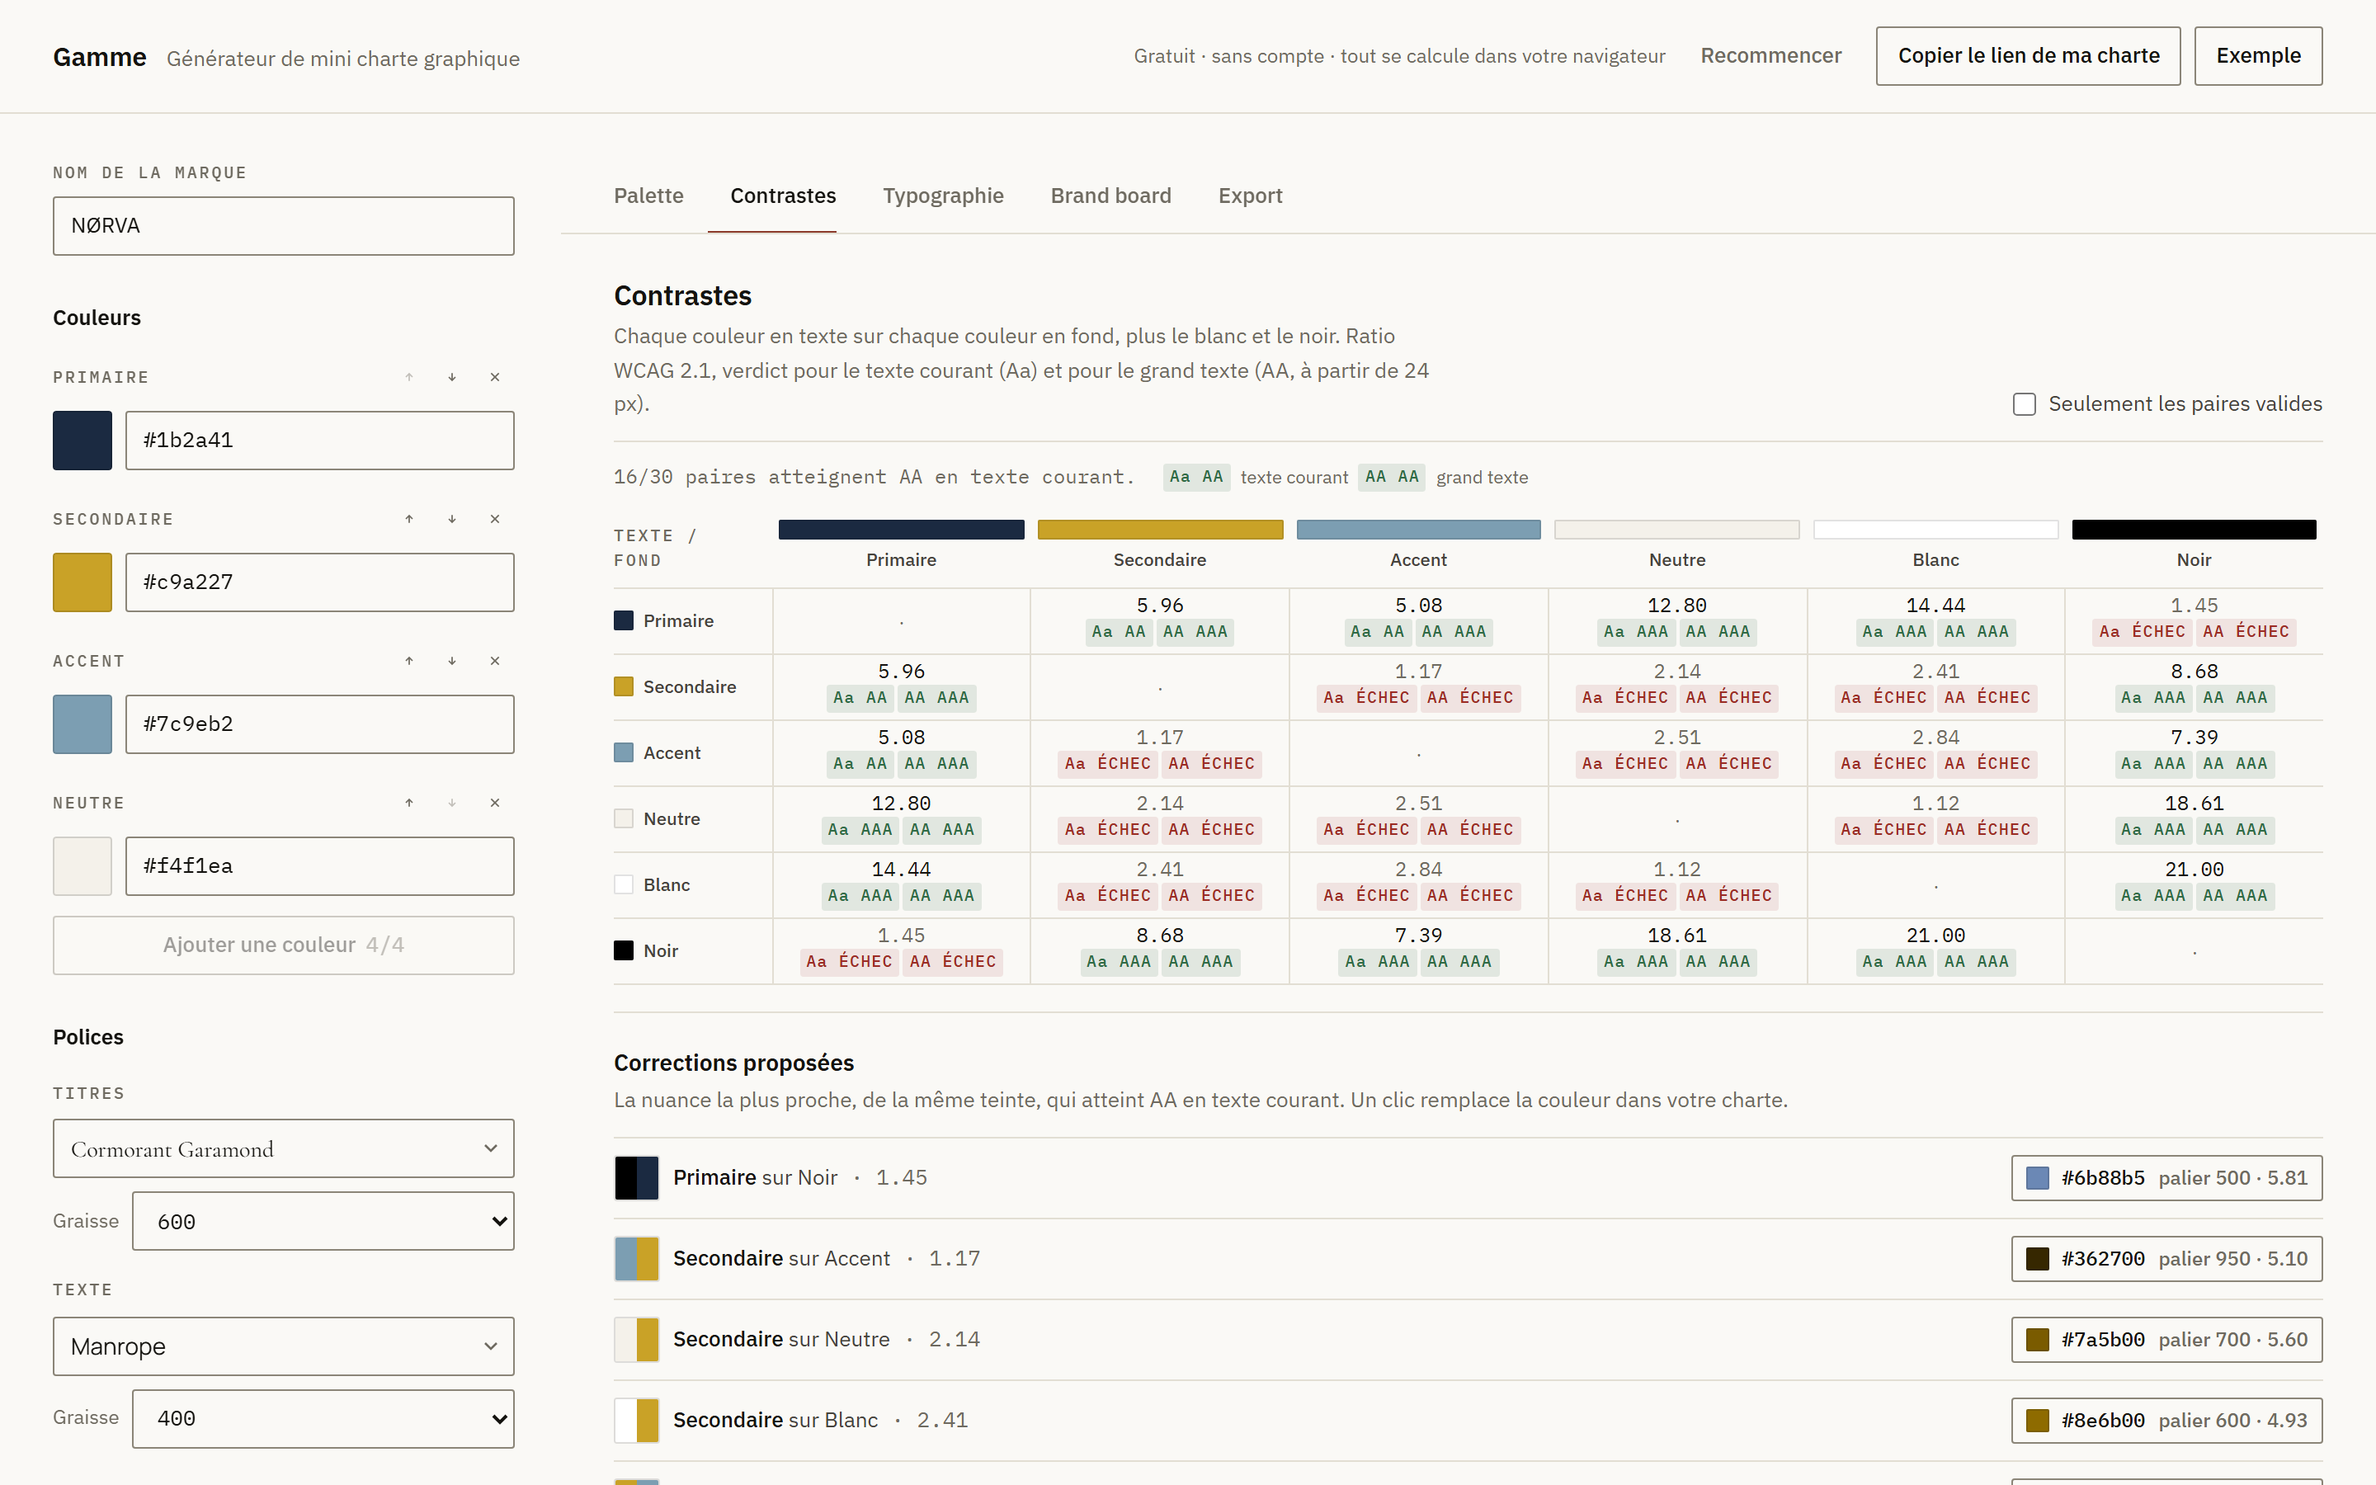
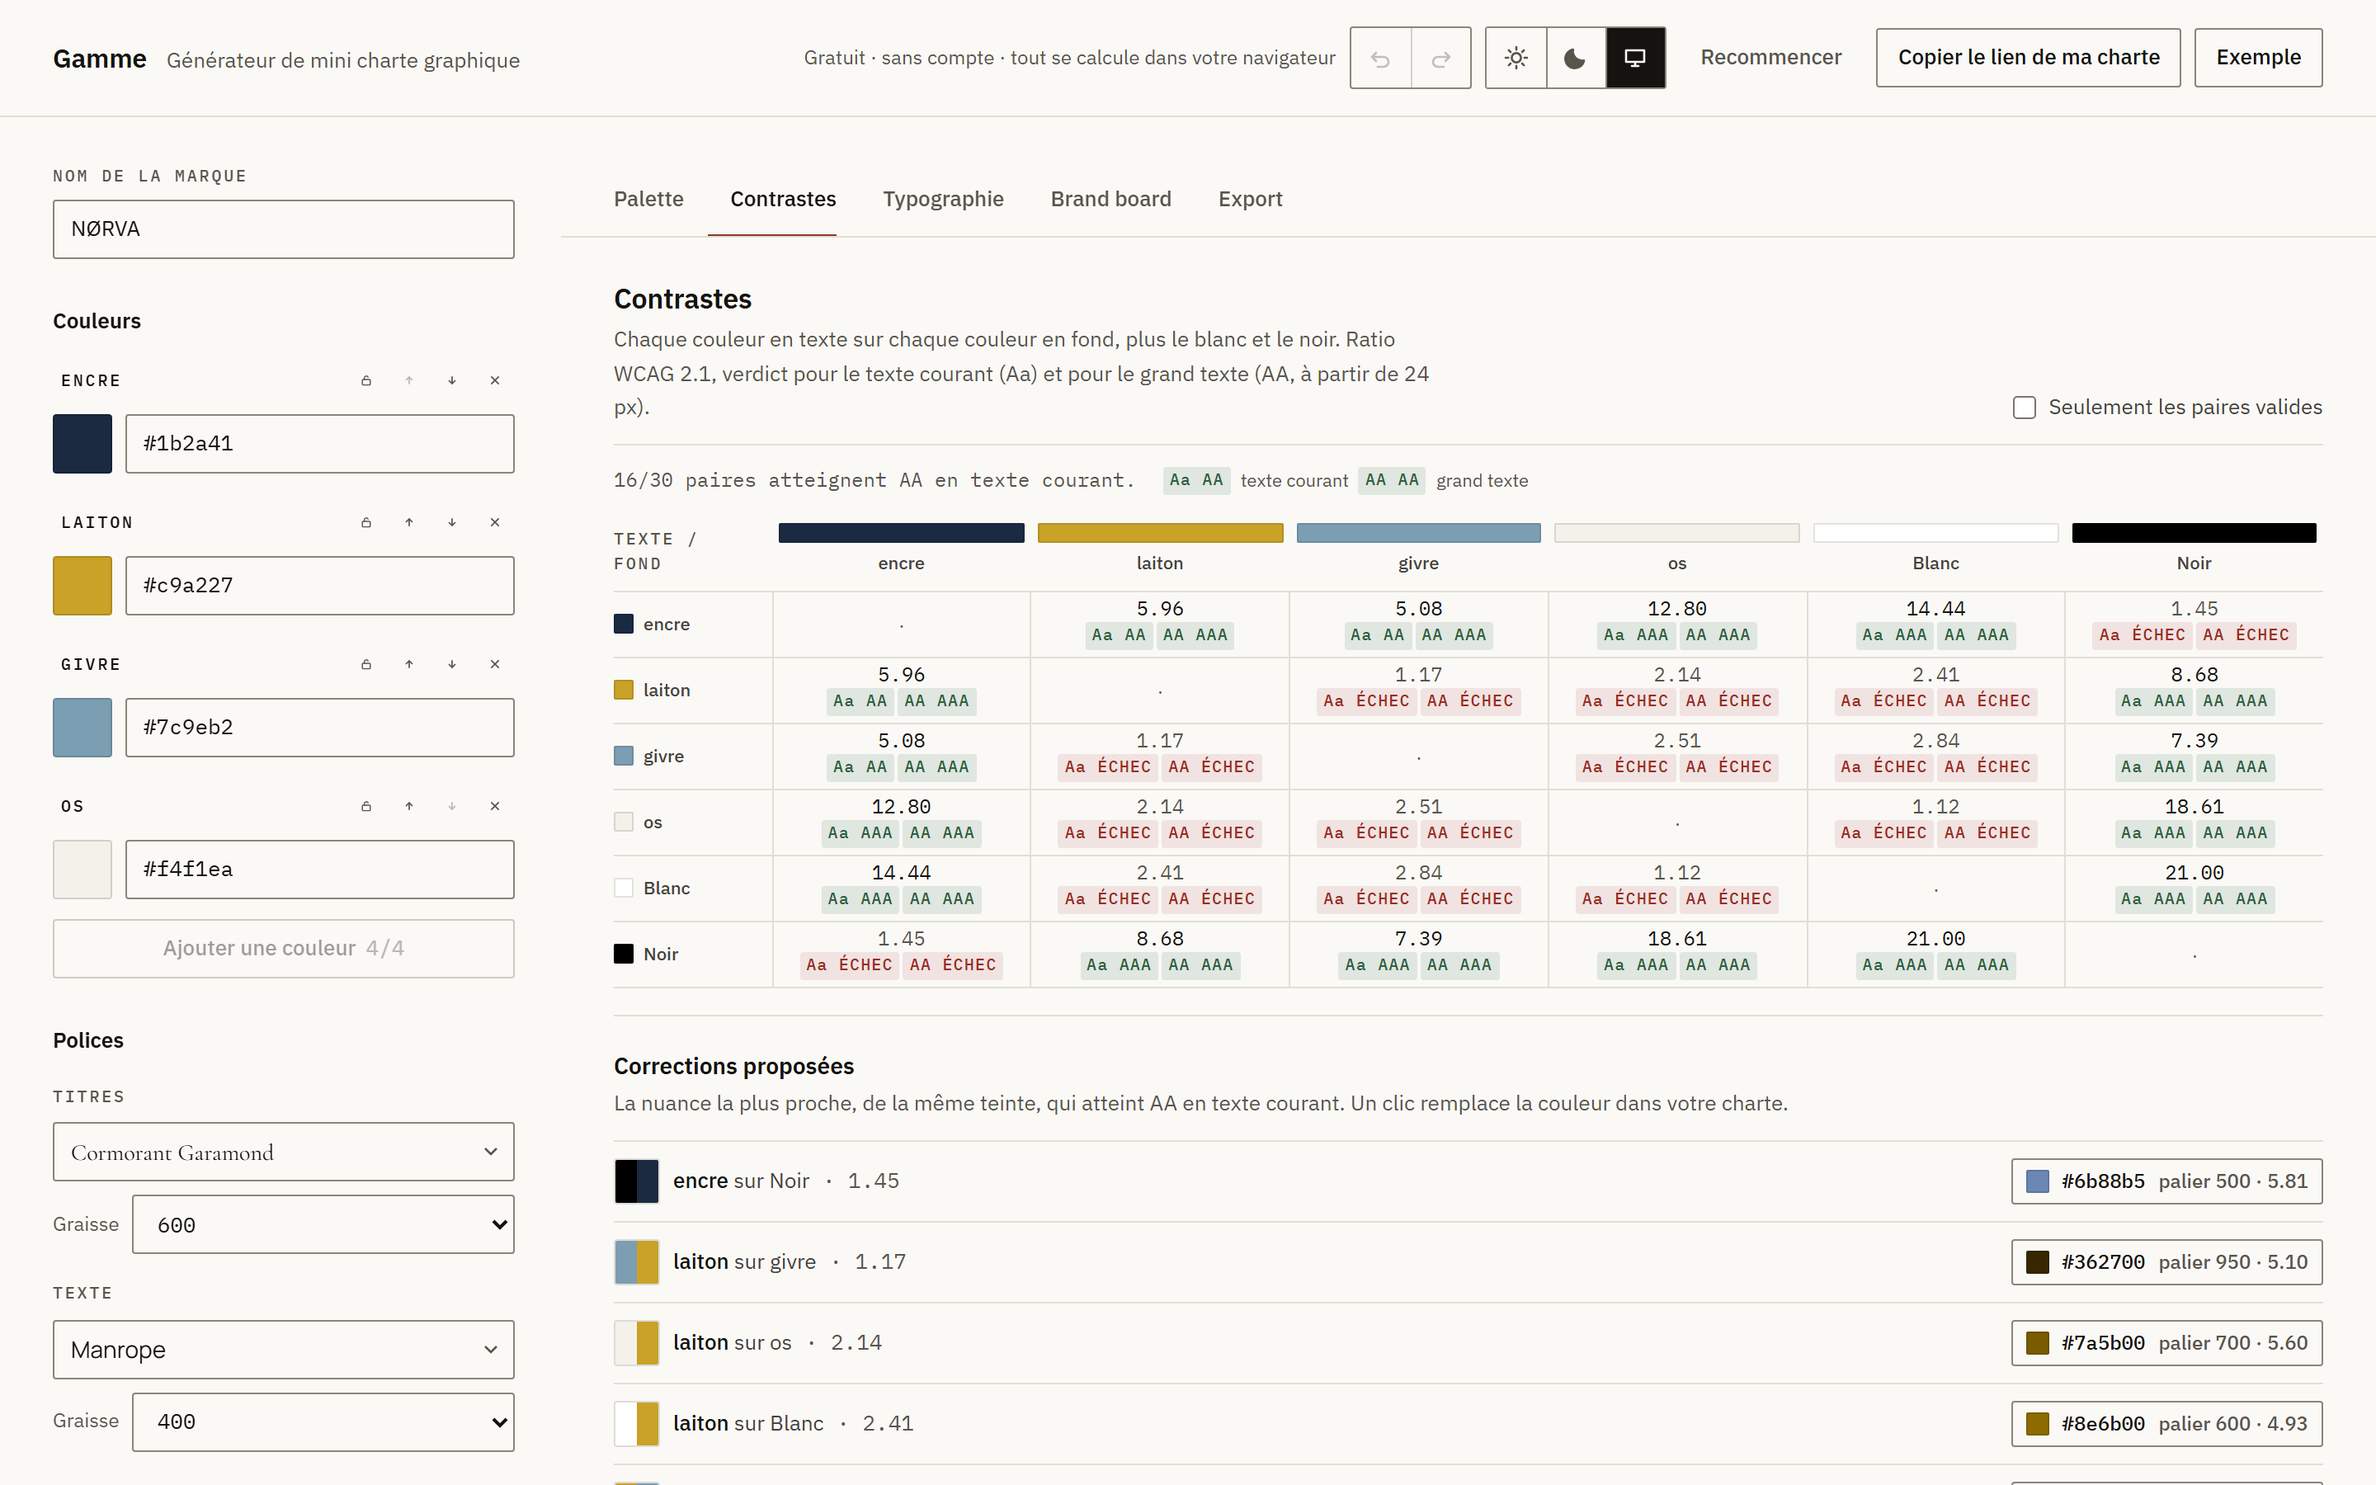
Met la documentation en accord et regenere les visuels
README, CLAUDE.md et JOURNAL.md decrivent l'etat reel: Preact, 47 ko
gzip, grille nuance par nuance, simulation du daltonisme, mode sombre,
APCA. Captures et image Open Graph regenerees depuis l'outil.

diff --git a/README.md b/README.md
@@ -22,6 +22,8 @@ rien de ce que vous saisissez ne le quitte.
 | ![Le panneau Palette : quatre échelles de onze nuances, avec la couleur saisie encadrée sur son palier d'ancrage.](docs/palette.png) | **Palette** — onze nuances par couleur, la couleur saisie restituée telle quelle. |
 | ![Le panneau Contrastes : une matrice six par six avec les ratios et les pastilles AA/AAA, suivie de la liste des corrections proposées.](docs/contrastes.png) | **Contrastes** — la matrice complète, puis une correction cliquable par paire en échec. |
 | ![Le panneau Typographie : neuf niveaux, chacun avec sa taille en pixels et en rem, son interlignage conseillé, et un spécimen rendu dans la police choisie.](docs/typographie.png) | **Typographie** — l'échelle rendue dans vos polices, interlignage compris. |
+| ![La grille nuance par nuance : onze paliers contre onze, les cases pleines marquant les paires qui atteignent le seuil.](docs/grille.png) | **Nuance par nuance** — 121 paires, le seuil au choix. |
+| ![L'outil en thème sombre, avec la palette rendue telle que la perçoit une deutéranopie.](docs/sombre-daltonisme.png) | **Thème sombre et simulation** — ici en deutéranopie. |
 
 ---
 
@@ -48,8 +50,19 @@ paragraphe se désagrège en lignes flottantes.
 lien et en 1080 × 1350 pour un post. Exporté en PNG à deux fois la définition,
 polices comprises.
 
+**La grille nuance par nuance.** Les onze paliers d'une échelle contre les onze
+de l'autre, avec le seuil de votre choix. C'est la grille qu'on consulte au
+moment d'intégrer : elle répond à « est-ce que le palier 600 passe sur le
+palier 50 ».
+
+**La simulation du daltonisme.** La palette et le brand board rendus tels que
+les perçoivent une deutéranopie, une protanopie ou une tritanopie. Un vert de
+validation et un rouge d'erreur qui ne se distinguent que par la teinte
+deviennent le même objet : mieux vaut le voir avant de livrer.
+
 **Les exports.** Variables CSS, bloc `@theme` pour Tailwind v4, tokens JSON au
-format W3C Design Tokens. À copier ou à télécharger.
+format W3C Design Tokens. À copier ou à télécharger. Nommez vos couleurs et les
+tokens s'appellent `--color-encre-500` plutôt que `--color-primary-500`.
 
 **Une URL partageable.** Toute la configuration tient dans le fragment de
 l'URL — la partie après le `#`, qui n'est jamais transmise au serveur. Même
@@ -68,8 +81,15 @@ l'hébergeur ne voit pas votre charte.
   qui passe AA qui est employée. Les couleurs exactes restent dans la bande de
   palette, en bas.
 - **L'interface ne vole pas la vedette aux palettes.** Papier, encre, filets
-  d'un cheveu, un seul accent. Toutes ses couleurs de texte passent AAA : un
-  outil qui juge le contraste des autres n'a pas le droit d'échouer au sien.
+  d'un cheveu, un seul accent. Toutes ses couleurs de texte atteignent AAA, dans
+  les deux thèmes : un outil qui juge le contraste des autres n'a pas le droit
+  d'échouer au sien.
+- **Jamais d'`opacity` sur du texte.** Elle réduit le contraste dans les mêmes
+  proportions, sans qu'on le voie venir. Les libellés secondaires sont mélangés
+  vers le fond en s'arrêtant au dernier point qui tient AA.
+- **APCA en second avis, jamais à la place.** Le calcul du brouillon WCAG 3 n'est
+  affiché que là où il contredit WCAG 2.1 — donner deux chiffres pour chaque
+  paire n'aiderait personne.
 
 ## Accessibilité
 
@@ -77,9 +97,9 @@ C'est un outil qui parle d'accessibilité ; il est tenu d'être exemplaire.
 
 | Contrôle | Résultat |
 |---|---|
-| Lighthouse mobile | 98 · 100 · 100 · 100 |
-| axe-core, trois états | 0 violation |
-| Tests unitaires | 151 |
+| Lighthouse mobile | 100 · 100 · 100 · 100 |
+| axe-core, quatre états dont 320 px | 0 violation |
+| Tests unitaires | 183 |
 | Vérifications de bout en bout | 83 |
 
 Navigation clavier complète — combobox ARIA, onglets aux flèches, anneau de
@@ -96,14 +116,18 @@ correspondance exacte sur cinq paires, ratios et verdicts.
 | | |
 |---|---|
 | [Vite](https://vite.dev) | build |
-| [React](https://react.dev) + [TypeScript](https://www.typescriptlang.org) | interface |
+| [Preact](https://preactjs.com) + [TypeScript](https://www.typescriptlang.org) | interface |
 | [Tailwind CSS v4](https://tailwindcss.com) | styles |
-| [culori](https://culorijs.org) | conversions et gamut mapping |
+| [culori](https://culorijs.org) | conversions, gamut mapping, simulation |
 | [html-to-image](https://github.com/bubkoo/html-to-image) | export PNG |
 
-Deux dépendances de production, en tout. Pas de serveur, pas de base de données,
-pas de clé d'API — le catalogue de 171 Google Fonts est embarqué dans le dépôt
-et les familles se chargent à la demande via l'URL `css2`.
+Le code est écrit en React ; `preact/compat` le sert pour un dixième du poids.
+**47 ko gzip au premier chargement**, `html-to-image` n'étant téléchargé qu'au
+premier export.
+
+Pas de serveur, pas de base de données, pas de clé d'API — le catalogue de
+171 Google Fonts est embarqué dans le dépôt et les familles se chargent à la
+demande via l'URL `css2`.
 
 ### Architecture
 

diff --git a/JOURNAL.md b/JOURNAL.md
@@ -566,3 +566,97 @@ en 200 avec le bon type de contenu.
 _(à compléter)_
 
 ---
+
+## Étape 7 — Le plan d'amélioration, exécuté
+
+**Date :** 19 septembre 2026
+**Temps passé :** ~3 h 30
+
+Analyse du projet fini, puis exécution des trois vagues du plan.
+
+### Ce que l'analyse a trouvé
+
+D'abord un mensonge, et c'est le plus important : **deux des quarante-deux
+vérifications de `npm run qa` étaient écrites `verifier(true, …)`**. Elles ne
+pouvaient pas échouer. L'une affichait même « 0 nuances » parce que son
+sélecteur cherchait des boutons de palette depuis l'onglet Contrastes. Le compte
+honnête était quarante, pas quarante-deux.
+
+Ensuite : la dérive de chroma devenue flagrante, le panneau Typographie qui
+cassait sa mise en page, l'absence de mode sombre, et surtout **la matrice qui
+ne comparait que quatre couleurs de base** alors que l'outil calculait
+quarante-quatre nuances sans jamais les confronter entre elles.
+
+### Vague 1 — l'intégrité et le visible
+
+Les deux assertions réécrites en vraies. Le chroma plafonné à 1,6 fois celui de
+la couleur saisie : l'encre `#1b2a41` passait par un bleuet `#5e88c7` au palier
+500, elle donne maintenant un acier sourd `#6b88b5`, et le neutre cesse de virer
+au khaki. Le panneau Typographie réparé — métadonnées en grille, rem à trois
+décimales, spécimen sur deux lignes au lieu d'une troncature en plein mot, ce
+qui rend enfin **visible** l'interlignage que le panneau conseille. Intégration
+continue, garde-fou d'erreur, `<noscript>`, captures dans le README.
+
+### Vague 2 — ce qui change la nature de l'outil
+
+**La simulation du daltonisme**, avec les filtres déjà présents dans `culori` :
+aucune dépendance ajoutée. Elle s'applique à la palette et à l'aperçu du brand
+board, jamais à l'export ni aux calculs — simuler en amont fausserait les
+verdicts. **Le mode sombre**, dont les deux jeux de couleurs sont vérifiés au
+même barème. **L'annulation** sur vingt pas, `Ctrl+Z` compris. **Le nommage des
+couleurs**, qui fait sortir `--color-encre-500` au lieu de
+`--color-primary-500`.
+
+### Vague 3 — combler le trou fonctionnel
+
+La **grille nuance par nuance** : onze paliers contre onze, seuil au choix,
+cent vingt et une cases. Sur NØRVA, trente et une paires passent — et les deux
+zones utilisables sautent aux yeux. Une **galerie de cinq chartes** dans l'état
+vide, chacune n'étant qu'un lien vers une URL. Un **verrou par couleur**.
+**APCA**, exposé uniquement là où il contredit WCAG 2.1.
+
+Et le remplacement de React par **Preact** : `preact/compat` sert le même code,
+pour **47 ko gzip au lieu de 107**. Gardé parce que les quatre-vingt-trois
+vérifications passent et qu'aucune erreur de console n'apparaît sur un parcours
+qui touche au `forwardRef` du brand board, à `useSyncExternalStore`, au garde-fou
+de classe et à l'export PNG.
+
+### Quatre défauts trouvés en mesurant, dont deux que je venais de créer
+
+1. **`ink-muted` était à 5,12 et `pass` à 6,03** en thème clair. Le README
+   affirmait « toutes ses couleurs de texte passent AAA » : c'était faux.
+   Valeurs revues à 7,07 et 7,08, ce qui rend les libellés de 11 px plus
+   lisibles au passage.
+2. **Mes boutons de thème faisaient 23,6 px de large**, sous le minimum de 24 px
+   du critère 2.5.8. Un conteneur souple les comprimait.
+3. **Les cases en échec de ma nouvelle grille portaient une `opacity`** qui
+   faisait tomber leur texte à 2,51:1 — exactement la faute que j'avais
+   diagnostiquée et corrigée en vague 1, refaite deux heures plus tard.
+4. **Le champ hexadécimal avait perdu son étiquette** en gagnant un voisin : le
+   nom de la couleur, devenu modifiable, ne pouvait plus servir de `label`.
+
+### Une recommandation fausse, annulée
+
+J'avais recommandé d'auto-héberger les polices de l'interface pour supprimer
+450 ms de blocage. Fait, mesuré : le premier affichage est passé de **1,8 s à
+2,7 s**. Les 165 ko de fichiers s'étaient mis à concurrencer le paquet
+JavaScript sur la même connexion, alors que servis depuis un autre domaine ils
+empruntent une connexion distincte et se chargent en parallèle. Annulé.
+
+C'est la seule conclusion honnête quand la mesure contredit l'hypothèse — et
+c'est la raison d'avoir une mesure.
+
+### Résultat
+
+| | Avant | Après |
+|---|---|---|
+| Lighthouse, état vide | 98 · 100 · 100 · 100 | **100 · 100 · 100 · 100** |
+| Premier chargement | 107 ko gzip | **47 ko gzip** |
+| Tests unitaires | 151 | **183** |
+| Vérifications réelles | 40 sur 42 annoncées | **83** |
+
+### Corrections d'Ewan
+
+_(à compléter)_
+
+---

diff --git a/CLAUDE.md b/CLAUDE.md
@@ -31,10 +31,13 @@ Il obtient en quelques secondes une charte exploitable, et une URL pour la parta
 - **Polices.** Un catalogue de **171 Google Fonts** est embarqué dans le dépôt
   (`src/data/google-fonts.json`). Chargement à la demande via l'URL `css2` de
   Google Fonts. **Ne jamais utiliser l'API Google Fonts** (elle exige une clé).
-- **Stack.** Vite + React + TypeScript + Tailwind CSS v4. Couleurs : `culori`.
-  Export PNG : `html-to-image`. **Aucune autre dépendance de production sans
-  demander à Ewan.** En développement : `vitest`, `playwright`, `axe-core`,
-  `lighthouse`, tous ajoutés avec son accord.
+- **Stack.** Vite + TypeScript + Tailwind CSS v4. Le code est écrit en React et
+  servi par `preact/compat` : 47 ko gzip au premier chargement au lieu de 107.
+  Couleurs : `culori`, via `src/lib/color/culori.ts` qui n'enregistre que
+  `rgb`, `oklab` et `oklch` — ajouter un espace se fait là, une fois.
+  Export PNG : `html-to-image`, chargé à la demande.
+  **Aucune autre dépendance de production sans demander à Ewan.** En
+  développement : `vitest`, `playwright`, `axe-core`, `lighthouse`.
 - **Accessibilité exemplaire.** C'est un outil qui parle d'accessibilité : il doit
   être irréprochable. Tout au clavier, focus visible, un label par champ, résultats
   annoncés en `aria-live`, `prefers-reduced-motion` respecté.
@@ -131,6 +134,10 @@ pas seulement un écran.
 | `npm run video` | la démo de 30 s en 1080 × 1350 |
 | `npm run demo` | rejoue la charte NØRVA dans le terminal |
 
+Les préférences d'affichage — thème et simulation du daltonisme — vivent dans
+`src/state/preferences.ts` et **ne partent pas dans l'URL** : elles décrivent
+une façon de regarder, pas la charte. Les verrous de couleur non plus.
+
 Les scripts de vérification ont besoin d'un serveur : lancer
 `npm run build && npm run preview` d'abord, puis passer l'URL par la variable
 d'environnement `BASE`.
@@ -149,6 +156,13 @@ d'environnement `BASE`.
   `lib/export/fonts-embed.ts` et passées via l'option `fontEmbedCSS`.
 - Ne **jamais monter deux dispositions** en masquant l'une en CSS : cela duplique
   les `id` et casse les `aria-controls`. Employer `useMediaQuery`.
+- **Ne jamais écrire `verifier(true, …)`** dans les scripts de vérification.
+  Deux assertions de ce genre ont gonflé un compte pendant une étape entière.
+- Le linter prend le `useMode` de culori pour un hook React : il est importé
+  sous le nom `enregistrerMode`.
+- L'**auto-hébergement des polices d'interface a été tenté puis annulé** :
+  mesure à l'appui, les 165 ko se mettaient à concurrencer le paquet JavaScript
+  sur la même connexion et le premier affichage passait de 1,8 s à 2,7 s.
 - `documentElement.scrollWidth` **n'est pas** une mesure fiable du débordement :
   Chrome y compte le contenu des conteneurs à défilement imbriqués, même clipés.
   Mesurer `window.scrollX` après une tentative de défilement.
